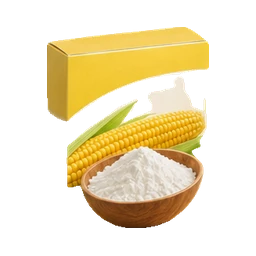
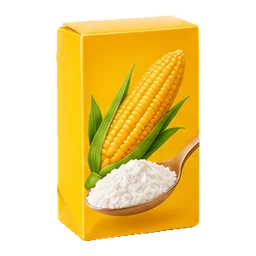
Versione 1.24: Tavola 32: 6 nuovi dolci e 10 immagini rifatte (Spaghetti, sfoglia, brisée, amido, gomme, couscous, besciamella, latte avena/mandorla, gassosa)
Claude-Session: https://claude.ai/code/session_01PsEHN9z92aK7YRahLFy1Zj

diff --git a/sw.js b/sw.js
@@ -1,7 +1,7 @@
 // Service worker: tiene l'app disponibile anche senza rete.
 // Per forzare un aggiornamento su tutti i telefoni, cambia il numero di VERSIONE.
-const VERSIONE = 'solo-du-cose-v24';
-const FILE = ["./", "index.html", "manifest.webmanifest", "icons/icon-192.png", "icons/icon-512.png", "icons/apple-touch-icon.png", "img/accendino.webp", "img/acciughe.webp", "img/aceto-balsamico.webp", "img/aceto-di-mele.webp", "img/aceto.webp", "img/acetone.webp", "img/acqua-frizzante.webp", "img/acqua-ossigenata.webp", "img/acqua.webp", "img/aglio.webp", "img/agnello.webp", "img/albicocche.webp", "img/alcol-denaturato.webp", "img/ali-di-pollo.webp", "img/amaretti.webp", "img/amaro.webp", "img/amido-di-mais.webp", "img/ammorbidente.webp", "img/anacardi.webp", "img/ananas.webp", "img/anguria.webp", "img/anticalcare.webp", "img/antidolorifico.webp", "img/antiparassitario.webp", "img/antizanzare.webp", "img/aperitivo.webp", "img/arachidi.webp", "img/arancia.webp", "img/aranciata.webp", "img/arancini-surgelati.webp", "img/arrosto.webp", "img/asiago.webp", "img/asparagi.webp", "img/assorbenti.webp", "img/avocado.webp", "img/baccala.webp", "img/bagel.webp", "img/bagnoschiuma.webp", "img/baguette.webp", "img/balsamo.webp", "img/banana.webp", "img/barbabietole.webp", "img/barrette-di-cereali.webp", "img/barrette.webp", "img/basilico.webp", "img/bastoncini-di-pesce.webp", "img/batterie-a-bottone.webp", "img/batterie.webp", "img/besciamella.webp", "img/bevanda-sportiva.webp", "img/bibite.webp", "img/bicarbonato.webp", "img/bicchieri-di-plastica.webp", "img/bietole.webp", "img/biglietti-d-auguri.webp", "img/birra-analcolica.webp", "img/birra.webp", "img/biscotti-integrali.webp", "img/biscotti.webp", "img/bistecche.webp", "img/bocconcini.webp", "img/borse-della-spesa.webp", "img/braciole.webp", "img/branzino.webp", "img/bresaola.webp", "img/brie.webp", "img/brillantante.webp", "img/brioche.webp", "img/broccoli-surgelati.webp", "img/broccoli.webp", "img/brodo.webp", "img/bucatini.webp", "img/budino.webp", "img/burrata.webp", "img/burro-di-arachidi.webp", "img/burro.webp", "img/burrocacao.webp", "img/buste.webp", "img/cacao-amaro.webp", "img/cachi.webp", "img/caciotta.webp", "img/caffe-d-orzo.webp", "img/caffe-freddo.webp", "img/caffe-in-capsule.webp", "img/caffe-in-grani.webp", "img/caffe-macinato.webp", "img/caffe.webp", "img/calamari-surgelati.webp", "img/calamari.webp", "img/camomilla.webp", "img/cancelleria.webp", "img/candeggina.webp", "img/candele-profumate.webp", "img/candele.webp", "img/candeline.webp", "img/cannella.webp", "img/cannucce.webp", "img/cantucci.webp", "img/capperi.webp", "img/caramelle.webp", "img/carciofi.webp", "img/carciofini-sott-olio.webp", "img/carote-surgelate.webp", "img/carote.webp", "img/carta-alluminio.webp", "img/carta-da-cucina.webp", "img/carta-forno.webp", "img/carta-igienica.webp", "img/carta-regalo.webp", "img/castagne.webp", "img/cavolfiore-surgelato.webp", "img/cavolfiore.webp", "img/cavolo-cappuccio.webp", "img/cavolo-nero.webp", "img/ceci.webp", "img/cereali.webp", "img/cerotti.webp", "img/cetrioli.webp", "img/cetriolini.webp", "img/chinotto.webp", "img/ciabatta.webp", "img/ciambella.webp", "img/ciambelle.webp", "img/cibo-per-cani.webp", "img/cicoria.webp", "img/ciliegie.webp", "img/cioccolatini.webp", "img/cioccolato-al-latte.webp", "img/cioccolato-bianco.webp", "img/cioccolato-fondente.webp", "img/cioccolato.webp", "img/cipolla.webp", "img/clementine.webp", "img/cocco.webp", "img/cola.webp", "img/collutorio.webp", "img/colomba.webp", "img/concentrato-di-pomodoro.webp", "img/coniglio.webp", "img/contenitori.webp", "img/coppa.webp", "img/corn-flakes.webp", "img/cornetto.webp", "img/cosce-di-pollo.webp", "img/costine.webp", "img/cotolette-surgelate.webp", "img/cotolette.webp", "img/cotone.webp", "img/cotton-fioc.webp", "img/couscous.webp", "img/cozze.webp", "img/cracker.webp", "img/crema-corpo.webp", "img/crema-idratante.webp", "img/crema-mani.webp", "img/crema-viso.webp", "img/croccantini.webp", "img/crocchette-di-patate.webp", "img/crostata.webp", "img/crostatine.webp", "img/curry.webp", "img/dentifricio.webp", "img/deodorante-per-ambiente.webp", "img/deodorante-roll-on.webp", "img/deodorante.webp", "img/detersivo-in-capsule.webp", "img/detersivo-pavimenti.webp", "img/detersivo-piatti.webp", "img/detersivo-vetri.webp", "img/detersivo.webp", "img/dischetti-struccanti.webp", "img/disincrostante.webp", "img/disinfettante.webp", "img/doccia.webp", "img/dopobarba.webp", "img/emmental.webp", "img/energy-drink.webp", "img/fagioli.webp", "img/fagiolini-surgelati.webp", "img/fagiolini.webp", "img/farfalle.webp", "img/farina.webp", "img/farmacia.webp", "img/farro.webp", "img/fave.webp", "img/fazzoletti.webp", "img/fegato.webp", "img/fesa-di-tacchino.webp", "img/feta.webp", "img/fette-biscottate.webp", "img/fettine-di-pollo.webp", "img/fettine-di-vitello.webp", "img/fiammiferi.webp", "img/fichi.webp", "img/filetto-di-manzo.webp", "img/filo-interdentale.webp", "img/filone.webp", "img/finocchi.webp", "img/fiocchi-d-avena.webp", "img/fiocchi-di-latte.webp", "img/fiori.webp", "img/focaccia-surgelata.webp", "img/focaccia.webp", "img/fontina.webp", "img/formaggini.webp", "img/formaggio-grattugiato.webp", "img/formaggio-spalmabile.webp", "img/formaggio.webp", "img/fragole.webp", "img/fritto-misto-surgelato.webp", "img/frollini.webp", "img/frutta-secca.webp", "img/frutti-di-bosco-surgelati.webp", "img/funghi-sott-olio.webp", "img/funghi.webp", "img/fusilli.webp", "img/gamberetti-surgelati.webp", "img/gamberi.webp", "img/garze.webp", "img/gassosa.webp", "img/gel-igienizzante.webp", "img/gel-per-capelli.webp", "img/gelatina.webp", "img/gelato.webp", "img/ghiaccio.webp", "img/ghiaccioli.webp", "img/giardiniera.webp", "img/ginger.webp", "img/gnocchi.webp", "img/gocce-di-cioccolato.webp", "img/gocciole.webp", "img/gomme-da-masticare.webp", "img/gorgonzola.webp", "img/graffette.webp", "img/grana.webp", "img/grappa.webp", "img/grissini.webp", "img/guanciale.webp", "img/guanti.webp", "img/hamburger-surgelati.webp", "img/hamburger.webp", "img/igienizzante.webp", "img/insalata-mista.webp", "img/insalata.webp", "img/insetticida.webp", "img/integratori.webp", "img/involtini.webp", "img/kefir.webp", "img/ketchup.webp", "img/kiwi.webp", "img/krapfen.webp", "img/lacca.webp", "img/lambrusco.webp", "img/lamette.webp", "img/lampadine.webp", "img/lamponi.webp", "img/lasagne.webp", "img/latte-detergente.webp", "img/latte-di-avena.webp", "img/latte-di-mandorla.webp", "img/latte-di-soia.webp", "img/latte-senza-lattosio.webp", "img/latte.webp", "img/lattuga.webp", "img/lavastoviglie-pastiglie.webp", "img/lecca-lecca.webp", "img/legumi-misti.webp", "img/lenticchie.webp", "img/lievito-di-birra.webp", "img/lievito.webp", "img/lime.webp", "img/limoncello.webp", "img/limone.webp", "img/linguine.webp", "img/liquirizia.webp", "img/macinato.webp", "img/maiale.webp", "img/maionese.webp", "img/mais-in-scatola.webp", "img/mais-surgelato.webp", "img/mais.webp", "img/mandarini.webp", "img/mandorle.webp", "img/mango.webp", "img/manzo.webp", "img/margarina.webp", "img/marmellata.webp", "img/mascara.webp", "img/mascarpone.webp", "img/maschera-per-capelli.webp", "img/matite.webp", "img/mazzancolle.webp", "img/mela.webp", "img/melanzana.webp", "img/mele-verdi.webp", "img/melograno.webp", "img/melone.webp", "img/menta.webp", "img/mentine.webp", "img/merendine.webp", "img/merluzzo-surgelato.webp", "img/merluzzo.webp", "img/miele.webp", "img/minestrone-surgelato.webp", "img/mirtilli.webp", "img/mocio.webp", "img/more.webp", "img/mortadella.webp", "img/mozzarella.webp", "img/mozzarelline.webp", "img/muesli.webp", "img/muffin.webp", "img/nastri.webp", "img/nastro-adesivo.webp", "img/nocciole.webp", "img/noccioline.webp", "img/noce-moscata.webp", "img/noci.webp", "img/nuggets.webp", "img/nutella.webp", "img/olio-extravergine.webp", "img/olio.webp", "img/olive.webp", "img/orata.webp", "img/orecchiette.webp", "img/origano.webp", "img/orzo.webp", "img/pacco.webp", "img/pagliette.webp", "img/paletta.webp", "img/palloncini.webp", "img/pan-carre.webp", "img/pancake.webp", "img/pancetta.webp", "img/pandoro.webp", "img/pane-casereccio.webp", "img/pane-in-cassetta.webp", "img/pane-integrale.webp", "img/pane-senza-glutine.webp", "img/pane.webp", "img/panettone.webp", "img/pangrattato.webp", "img/panini-per-hamburger.webp", "img/panini.webp", "img/panna.webp", "img/panni.webp", "img/pannolini.webp", "img/paprika.webp", "img/parmigiano.webp", "img/passata.webp", "img/pasta-all-uovo.webp", "img/pasta-brisee.webp", "img/pasta-sfoglia.webp", "img/pasta.webp", "img/pasticcini.webp", "img/patate-dolci.webp", "img/patate-surgelate.webp", "img/patate.webp", "img/patatine-surgelate.webp", "img/patatine.webp", "img/pecorino.webp", "img/pellicola.webp", "img/penne.webp", "img/pepe.webp", "img/peperoncino.webp", "img/peperone.webp", "img/pera.webp", "img/pesca.webp", "img/pesce-spada.webp", "img/pesce-surgelato.webp", "img/pesto.webp", "img/petto-di-pollo.webp", "img/piadine.webp", "img/piante.webp", "img/piatti-di-carta.webp", "img/pinoli.webp", "img/piselli-freschi.webp", "img/piselli-in-scatola.webp", "img/piselli-surgelati.webp", "img/pistacchi.webp", "img/pizza-base.webp", "img/pizza-surgelata.webp", "img/platessa.webp", "img/plumcake.webp", "img/polenta.webp", "img/pollo.webp", "img/polpa-di-pomodoro.webp", "img/polpette-surgelate.webp", "img/polpette.webp", "img/polpo.webp", "img/pomodori-datterini.webp", "img/pomodori-pelati.webp", "img/pomodori-secchi.webp", "img/pomodorini-ciliegino.webp", "img/pomodoro.webp", "img/pompelmo.webp", "img/popcorn.webp", "img/porchetta.webp", "img/posate-di-plastica.webp", "img/prezzemolo.webp", "img/prosciutto-cotto.webp", "img/prosciutto-crudo.webp", "img/prosecco.webp", "img/protezione-solare.webp", "img/provola.webp", "img/prugne.webp", "img/quaderni.webp", "img/radicchio.webp", "img/rasoi.webp", "img/ravanelli.webp", "img/ravioli-surgelati.webp", "img/ravioli.webp", "img/regalo.webp", "img/ricambi-mocio.webp", "img/ricotta.webp", "img/rigatoni.webp", "img/riso-basmati.webp", "img/riso.webp", "img/rosmarino.webp", "img/rossetto.webp", "img/rotoloni.webp", "img/rucola.webp", "img/sacchetti-freezer.webp", "img/sacchetti-igienici.webp", "img/sacchetti-umido.webp", "img/sacchi-della-spazzatura.webp", "img/salame.webp", "img/salatini.webp", "img/sale-per-lavastoviglie.webp", "img/sale.webp", "img/salmone-affumicato.webp", "img/salmone-surgelato.webp", "img/salmone.webp", "img/salsa-barbecue.webp", "img/salsa-di-soia.webp", "img/salsicce.webp", "img/salvia.webp", "img/salviette-neonato.webp", "img/salviette-umidificate.webp", "img/sapone-intimo.webp", "img/sapone-liquido.webp", "img/sapone.webp", "img/sardine-in-scatola.webp", "img/sardine.webp", "img/savoiardi.webp", "img/scalogno.webp", "img/scamorza.webp", "img/scampi.webp", "img/schiuma-da-barba.webp", "img/sciroppo.webp", "img/scopa.webp", "img/secchio.webp", "img/sedano.webp", "img/semola.webp", "img/senape.webp", "img/seppie.webp", "img/sgombro.webp", "img/sgrassatore.webp", "img/shampoo.webp", "img/smalto.webp", "img/snack-per-cani.webp", "img/soffritto-surgelato.webp", "img/sogliola.webp", "img/sorbetto.webp", "img/sottaceti.webp", "img/sottilette.webp", "img/spazzola.webp", "img/spazzolino.webp", "img/speck.webp", "img/spezzatino.webp", "img/spinaci-surgelati.webp", "img/spinaci.webp", "img/spremuta.webp", "img/spugne.webp", "img/spumante.webp", "img/straccetti-di-pollo.webp", "img/stracchino.webp", "img/strofinacci.webp", "img/struccante.webp", "img/succo-d-arancia.webp", "img/succo-di-frutta.webp", "img/succo-di-limone.webp", "img/succo-di-pomodoro.webp", "img/sugo.webp", "img/surimi.webp", "img/tacchino.webp", "img/tagliata.webp", "img/tagliatelle.webp", "img/taleggio.webp", "img/tamponi.webp", "img/taralli.webp", "img/te-freddo.webp", "img/te.webp", "img/termometro.webp", "img/timo.webp", "img/tisane.webp", "img/tonica.webp", "img/tonno-fresco.webp", "img/tonno-in-scatola.webp", "img/torrone.webp", "img/torta.webp", "img/tortellini.webp", "img/tortillas.webp", "img/totani.webp", "img/tovaglioli.webp", "img/trota.webp", "img/umido-per-cani.webp", "img/uova.webp", "img/uva.webp", "img/uvetta.webp", "img/vanillina.webp", "img/verdure-surgelate.webp", "img/vino-bianco.webp", "img/vino-frizzante.webp", "img/vino.webp", "img/vitamine.webp", "img/vitello.webp", "img/vongole.webp", "img/wafer.webp", "img/wurstel.webp", "img/yogurt-alla-frutta.webp", "img/yogurt-greco.webp", "img/yogurt.webp", "img/zenzero.webp", "img/zucca.webp", "img/zucchero-a-velo.webp", "img/zucchero-di-canna.webp", "img/zucchero.webp", "img/zucchina.webp"];
+const VERSIONE = 'solo-du-cose-v25';
+const FILE = ["./", "index.html", "manifest.webmanifest", "icons/icon-192.png", "icons/icon-512.png", "icons/apple-touch-icon.png", "img/accendino.webp", "img/acciughe.webp", "img/aceto-balsamico.webp", "img/aceto-di-mele.webp", "img/aceto.webp", "img/acetone.webp", "img/acqua-frizzante.webp", "img/acqua-ossigenata.webp", "img/acqua.webp", "img/aglio.webp", "img/agnello.webp", "img/albicocche.webp", "img/alcol-denaturato.webp", "img/ali-di-pollo.webp", "img/amaretti.webp", "img/amaro.webp", "img/amido-di-mais.webp", "img/ammorbidente.webp", "img/anacardi.webp", "img/ananas.webp", "img/anguria.webp", "img/anticalcare.webp", "img/antidolorifico.webp", "img/antiparassitario.webp", "img/antizanzare.webp", "img/aperitivo.webp", "img/arachidi.webp", "img/arancia.webp", "img/aranciata.webp", "img/arancini-surgelati.webp", "img/arrosto.webp", "img/asiago.webp", "img/asparagi.webp", "img/assorbenti.webp", "img/avocado.webp", "img/baccala.webp", "img/bagel.webp", "img/bagnoschiuma.webp", "img/baguette.webp", "img/baiocchi.webp", "img/balsamo.webp", "img/banana.webp", "img/barbabietole.webp", "img/barrette-di-cereali.webp", "img/barrette.webp", "img/basilico.webp", "img/bastoncini-di-pesce.webp", "img/batterie-a-bottone.webp", "img/batterie.webp", "img/besciamella.webp", "img/bevanda-sportiva.webp", "img/bibite.webp", "img/bicarbonato.webp", "img/bicchieri-di-plastica.webp", "img/bietole.webp", "img/biglietti-d-auguri.webp", "img/birra-analcolica.webp", "img/birra.webp", "img/biscotti-integrali.webp", "img/biscotti-mulino-bianco.webp", "img/biscotti.webp", "img/bistecche.webp", "img/bocconcini.webp", "img/borse-della-spesa.webp", "img/braciole.webp", "img/branzino.webp", "img/bresaola.webp", "img/brie.webp", "img/brillantante.webp", "img/brioche.webp", "img/broccoli-surgelati.webp", "img/broccoli.webp", "img/brodo.webp", "img/bucatini.webp", "img/budino.webp", "img/burrata.webp", "img/burro-di-arachidi.webp", "img/burro.webp", "img/burrocacao.webp", "img/buste.webp", "img/cacao-amaro.webp", "img/cachi.webp", "img/caciotta.webp", "img/caffe-d-orzo.webp", "img/caffe-freddo.webp", "img/caffe-in-capsule.webp", "img/caffe-in-grani.webp", "img/caffe-macinato.webp", "img/caffe.webp", "img/calamari-surgelati.webp", "img/calamari.webp", "img/camomilla.webp", "img/cancelleria.webp", "img/candeggina.webp", "img/candele-profumate.webp", "img/candele.webp", "img/candeline.webp", "img/cannella.webp", "img/cannucce.webp", "img/cantucci.webp", "img/capperi.webp", "img/caramelle.webp", "img/carciofi.webp", "img/carciofini-sott-olio.webp", "img/carote-surgelate.webp", "img/carote.webp", "img/carta-alluminio.webp", "img/carta-da-cucina.webp", "img/carta-forno.webp", "img/carta-igienica.webp", "img/carta-regalo.webp", "img/castagne.webp", "img/cavolfiore-surgelato.webp", "img/cavolfiore.webp", "img/cavolo-cappuccio.webp", "img/cavolo-nero.webp", "img/ceci.webp", "img/cereali.webp", "img/cerotti.webp", "img/cetrioli.webp", "img/cetriolini.webp", "img/chinotto.webp", "img/ciabatta.webp", "img/ciambella.webp", "img/ciambelle.webp", "img/cibo-per-cani.webp", "img/cicoria.webp", "img/ciliegie.webp", "img/cioccolatini.webp", "img/cioccolato-al-latte.webp", "img/cioccolato-bianco.webp", "img/cioccolato-fondente.webp", "img/cioccolato.webp", "img/cipolla.webp", "img/clementine.webp", "img/cocco.webp", "img/cola.webp", "img/collutorio.webp", "img/colomba.webp", "img/concentrato-di-pomodoro.webp", "img/coniglio.webp", "img/contenitori.webp", "img/coppa.webp", "img/corn-flakes.webp", "img/cornetto.webp", "img/cosce-di-pollo.webp", "img/costine.webp", "img/cotolette-surgelate.webp", "img/cotolette.webp", "img/cotone.webp", "img/cotton-fioc.webp", "img/couscous.webp", "img/cozze.webp", "img/cracker.webp", "img/crema-corpo.webp", "img/crema-idratante.webp", "img/crema-mani.webp", "img/crema-viso.webp", "img/croccantini.webp", "img/crocchette-di-patate.webp", "img/crostata.webp", "img/crostatine.webp", "img/curry.webp", "img/dentifricio.webp", "img/deodorante-per-ambiente.webp", "img/deodorante-roll-on.webp", "img/deodorante.webp", "img/detersivo-in-capsule.webp", "img/detersivo-pavimenti.webp", "img/detersivo-piatti.webp", "img/detersivo-vetri.webp", "img/detersivo.webp", "img/dischetti-struccanti.webp", "img/disincrostante.webp", "img/disinfettante.webp", "img/doccia.webp", "img/dopobarba.webp", "img/emmental.webp", "img/energy-drink.webp", "img/fagioli.webp", "img/fagiolini-surgelati.webp", "img/fagiolini.webp", "img/farfalle.webp", "img/farina.webp", "img/farmacia.webp", "img/farro.webp", "img/fave.webp", "img/fazzoletti.webp", "img/fegato.webp", "img/fesa-di-tacchino.webp", "img/feta.webp", "img/fette-biscottate.webp", "img/fettine-di-pollo.webp", "img/fettine-di-vitello.webp", "img/fiammiferi.webp", "img/fichi.webp", "img/fiesta.webp", "img/filetto-di-manzo.webp", "img/filo-interdentale.webp", "img/filone.webp", "img/finocchi.webp", "img/fiocchi-d-avena.webp", "img/fiocchi-di-latte.webp", "img/fiori.webp", "img/focaccia-surgelata.webp", "img/focaccia.webp", "img/fontina.webp", "img/formaggini.webp", "img/formaggio-grattugiato.webp", "img/formaggio-spalmabile.webp", "img/formaggio.webp", "img/fragole.webp", "img/fritto-misto-surgelato.webp", "img/frollini.webp", "img/frutta-secca.webp", "img/frutti-di-bosco-surgelati.webp", "img/funghi-sott-olio.webp", "img/funghi.webp", "img/fusilli.webp", "img/gamberetti-surgelati.webp", "img/gamberi.webp", "img/garze.webp", "img/gassosa.webp", "img/gel-igienizzante.webp", "img/gel-per-capelli.webp", "img/gelatina.webp", "img/gelato.webp", "img/ghiaccio.webp", "img/ghiaccioli.webp", "img/giardiniera.webp", "img/ginger.webp", "img/gnocchi.webp", "img/gocce-di-cioccolato.webp", "img/gocciole.webp", "img/gomme-da-masticare.webp", "img/gorgonzola.webp", "img/graffette.webp", "img/grana.webp", "img/grappa.webp", "img/grissini.webp", "img/guanciale.webp", "img/guanti.webp", "img/hamburger-surgelati.webp", "img/hamburger.webp", "img/igienizzante.webp", "img/insalata-mista.webp", "img/insalata.webp", "img/insetticida.webp", "img/integratori.webp", "img/involtini.webp", "img/kefir.webp", "img/ketchup.webp", "img/kiwi.webp", "img/krapfen.webp", "img/lacca.webp", "img/lambrusco.webp", "img/lamette.webp", "img/lampadine.webp", "img/lamponi.webp", "img/lasagne.webp", "img/latte-detergente.webp", "img/latte-di-avena.webp", "img/latte-di-mandorla.webp", "img/latte-di-soia.webp", "img/latte-senza-lattosio.webp", "img/latte.webp", "img/lattuga.webp", "img/lavastoviglie-pastiglie.webp", "img/lecca-lecca.webp", "img/legumi-misti.webp", "img/lenticchie.webp", "img/lievito-di-birra.webp", "img/lievito.webp", "img/lime.webp", "img/limoncello.webp", "img/limone.webp", "img/linguine.webp", "img/liquirizia.webp", "img/macinato.webp", "img/maiale.webp", "img/maionese.webp", "img/mais-in-scatola.webp", "img/mais-surgelato.webp", "img/mais.webp", "img/mandarini.webp", "img/mandorle.webp", "img/mango.webp", "img/manzo.webp", "img/margarina.webp", "img/marmellata.webp", "img/mascara.webp", "img/mascarpone.webp", "img/maschera-per-capelli.webp", "img/matite.webp", "img/mazzancolle.webp", "img/mela.webp", "img/melanzana.webp", "img/mele-verdi.webp", "img/melograno.webp", "img/melone.webp", "img/menta.webp", "img/mentine.webp", "img/merendine.webp", "img/merluzzo-surgelato.webp", "img/merluzzo.webp", "img/miele.webp", "img/minestrone-surgelato.webp", "img/mirtilli.webp", "img/mocio.webp", "img/more.webp", "img/mortadella.webp", "img/mozzarella.webp", "img/mozzarelline.webp", "img/muesli.webp", "img/muffin.webp", "img/nastri.webp", "img/nastro-adesivo.webp", "img/nocciole.webp", "img/noccioline.webp", "img/noce-moscata.webp", "img/noci.webp", "img/nuggets.webp", "img/nutella-biscuits.webp", "img/nutella.webp", "img/occhi-di-bue.webp", "img/olio-extravergine.webp", "img/olio.webp", "img/olive.webp", "img/orata.webp", "img/orecchiette.webp", "img/origano.webp", "img/orzo.webp", "img/pacco.webp", "img/pagliette.webp", "img/paletta.webp", "img/palloncini.webp", "img/pan-carre.webp", "img/pancake.webp", "img/pancetta.webp", "img/pandoro.webp", "img/pane-casereccio.webp", "img/pane-in-cassetta.webp", "img/pane-integrale.webp", "img/pane-senza-glutine.webp", "img/pane.webp", "img/panettone.webp", "img/pangrattato.webp", "img/panini-per-hamburger.webp", "img/panini.webp", "img/panna.webp", "img/panni.webp", "img/pannolini.webp", "img/paprika.webp", "img/parmigiano.webp", "img/passata.webp", "img/pasta-all-uovo.webp", "img/pasta-brisee.webp", "img/pasta-sfoglia.webp", "img/pasta.webp", "img/pasticcini.webp", "img/patate-dolci.webp", "img/patate-surgelate.webp", "img/patate.webp", "img/patatine-surgelate.webp", "img/patatine.webp", "img/pecorino.webp", "img/pellicola.webp", "img/penne.webp", "img/pepe.webp", "img/peperoncino.webp", "img/peperone.webp", "img/pera.webp", "img/pesca.webp", "img/pesce-spada.webp", "img/pesce-surgelato.webp", "img/pesto.webp", "img/petto-di-pollo.webp", "img/piadine.webp", "img/piante.webp", "img/piatti-di-carta.webp", "img/pinoli.webp", "img/piselli-freschi.webp", "img/piselli-in-scatola.webp", "img/piselli-surgelati.webp", "img/pistacchi.webp", "img/pizza-base.webp", "img/pizza-surgelata.webp", "img/platessa.webp", "img/plumcake.webp", "img/polenta.webp", "img/pollo.webp", "img/polpa-di-pomodoro.webp", "img/polpette-surgelate.webp", "img/polpette.webp", "img/polpo.webp", "img/pomodori-datterini.webp", "img/pomodori-pelati.webp", "img/pomodori-secchi.webp", "img/pomodorini-ciliegino.webp", "img/pomodoro.webp", "img/pompelmo.webp", "img/popcorn.webp", "img/porchetta.webp", "img/posate-di-plastica.webp", "img/prezzemolo.webp", "img/prosciutto-cotto.webp", "img/prosciutto-crudo.webp", "img/prosecco.webp", "img/protezione-solare.webp", "img/provola.webp", "img/prugne.webp", "img/quaderni.webp", "img/radicchio.webp", "img/rasoi.webp", "img/ravanelli.webp", "img/ravioli-surgelati.webp", "img/ravioli.webp", "img/regalo.webp", "img/ricambi-mocio.webp", "img/ricotta.webp", "img/rigatoni.webp", "img/riso-basmati.webp", "img/riso.webp", "img/rosmarino.webp", "img/rossetto.webp", "img/rotoloni.webp", "img/rucola.webp", "img/sacchetti-freezer.webp", "img/sacchetti-igienici.webp", "img/sacchetti-umido.webp", "img/sacchi-della-spazzatura.webp", "img/salame.webp", "img/salatini.webp", "img/sale-per-lavastoviglie.webp", "img/sale.webp", "img/salmone-affumicato.webp", "img/salmone-surgelato.webp", "img/salmone.webp", "img/salsa-barbecue.webp", "img/salsa-di-soia.webp", "img/salsicce.webp", "img/salvia.webp", "img/salviette-neonato.webp", "img/salviette-umidificate.webp", "img/sapone-intimo.webp", "img/sapone-liquido.webp", "img/sapone.webp", "img/sardine-in-scatola.webp", "img/sardine.webp", "img/savoiardi.webp", "img/scalogno.webp", "img/scamorza.webp", "img/scampi.webp", "img/schiuma-da-barba.webp", "img/sciroppo.webp", "img/scopa.webp", "img/secchio.webp", "img/sedano.webp", "img/semola.webp", "img/senape.webp", "img/seppie.webp", "img/sgombro.webp", "img/sgrassatore.webp", "img/shampoo.webp", "img/smalto.webp", "img/snack-per-cani.webp", "img/soffritto-surgelato.webp", "img/sogliola.webp", "img/sorbetto.webp", "img/sottaceti.webp", "img/sottilette.webp", "img/spaghetti.webp", "img/spazzola.webp", "img/spazzolino.webp", "img/speck.webp", "img/spezzatino.webp", "img/spinaci-surgelati.webp", "img/spinaci.webp", "img/spremuta.webp", "img/spugne.webp", "img/spumante.webp", "img/straccetti-di-pollo.webp", "img/stracchino.webp", "img/strofinacci.webp", "img/struccante.webp", "img/succo-d-arancia.webp", "img/succo-di-frutta.webp", "img/succo-di-limone.webp", "img/succo-di-pomodoro.webp", "img/sugo.webp", "img/surimi.webp", "img/tacchino.webp", "img/tagliata.webp", "img/tagliatelle.webp", "img/taleggio.webp", "img/tamponi.webp", "img/taralli.webp", "img/te-freddo.webp", "img/te.webp", "img/termometro.webp", "img/timo.webp", "img/tisane.webp", "img/tonica.webp", "img/tonno-fresco.webp", "img/tonno-in-scatola.webp", "img/torrone.webp", "img/torta.webp", "img/tortellini.webp", "img/tortillas.webp", "img/totani.webp", "img/tovaglioli.webp", "img/trota.webp", "img/umido-per-cani.webp", "img/uova.webp", "img/uva.webp", "img/uvetta.webp", "img/vanillina.webp", "img/ventaglietti.webp", "img/verdure-surgelate.webp", "img/vino-bianco.webp", "img/vino-frizzante.webp", "img/vino.webp", "img/vitamine.webp", "img/vitello.webp", "img/vongole.webp", "img/wafer.webp", "img/wurstel.webp", "img/yogurt-alla-frutta.webp", "img/yogurt-greco.webp", "img/yogurt.webp", "img/zenzero.webp", "img/zucca.webp", "img/zucchero-a-velo.webp", "img/zucchero-di-canna.webp", "img/zucchero.webp", "img/zucchina.webp"];
 
 self.addEventListener('install', e => {
   e.waitUntil(caches.open(VERSIONE).then(c => c.addAll(FILE)).then(() => self.skipWaiting()));

diff --git a/index.html b/index.html
@@ -307,7 +307,7 @@ const IMG = {
   'melanzane':'melanzana','peperoni':'peperone','funghi':'funghi','avocado':'avocado','basilico':'basilico','mais':'mais','pane':'pane','cornetti':'cornetto',
   'coca-cola':'cola','fanta':'aranciata','schweppes':'tonica','ginger ale':'ginger','red bull':'energy-drink','gatorade':'bevanda-sportiva','estathe':'te-freddo','aperol':'aperitivo','philadelphia':'formaggio-spalmabile',
   'latte':'latte','latte senza lattosio':'latte-senza-lattosio','burro':'burro','mozzarella':'mozzarella','parmigiano':'parmigiano','formaggio':'formaggio','uova':'uova','yogurt':'yogurt',
-  'pasta':'pasta','spaghetti':'pasta','riso':'riso','farina':'farina','zucchero':'zucchero','olio':'olio',"olio d'oliva":'olio','passata di pomodoro':'passata',
+  'pasta':'pasta','spaghetti':'spaghetti','riso':'riso','farina':'farina','zucchero':'zucchero','olio':'olio',"olio d'oliva":'olio','passata di pomodoro':'passata',
   'caffe':'caffe','biscotti':'biscotti','acqua':'acqua','acqua frizzante':'acqua-frizzante','vino rosso':'vino','birra':'birra','carta igienica':'carta-igienica',
   'detersivo piatti':'detersivo-piatti','detersivo lavatrice':'detersivo','dentifricio':'dentifricio',
   'melone':'melone','mirtilli':'mirtilli','spinaci':'spinaci','prezzemolo':'prezzemolo','cetrioli':'cetrioli','zucca':'zucca','rucola':'rucola','finocchi':'finocchi','sedano':'sedano','ananas':'ananas','mango':'mango','ciliegie':'ciliegie','albicocche':'albicocche','mandarini':'mandarini','clementine':'clementine','pompelmo':'pompelmo','lime':'lime','fichi':'fichi','cachi':'cachi','melograno':'melograno','mele verdi':'mele-verdi','cocco':'cocco','castagne':'castagne','lamponi':'lamponi','more':'more','prugne':'prugne','cavolfiore':'cavolfiore','cavolo cappuccio':'cavolo-cappuccio','cavolo nero':'cavolo-nero','radicchio':'radicchio','bietole':'bietole','asparagi':'asparagi','fagiolini':'fagiolini','piselli freschi':'piselli-freschi','ravanelli':'ravanelli','barbabietole':'barbabietole','cicoria':'cicoria','lattuga':'lattuga','patate dolci':'patate-dolci','scalogno':'scalogno','zenzero':'zenzero','peperoncino':'peperoncino','carciofi':'carciofi','pomodorini ciliegino':'pomodorini-ciliegino','pomodori datterini':'pomodori-datterini','insalata mista':'insalata-mista','rosmarino':'rosmarino','salvia':'salvia',
@@ -317,7 +317,8 @@ const IMG = {
   'vanillina':'vanillina','amido di mais':'amido-di-mais','lievito di birra':'lievito-di-birra','gelatina':'gelatina','gocce di cioccolato':'gocce-di-cioccolato','camomilla':'camomilla','tisane':'tisane','caffe d\'orzo':'caffe-d-orzo','caffe macinato':'caffe-macinato','caffe in grani':'caffe-in-grani','pesto':'pesto','carciofini sott\'olio':'carciofini-sott-olio','pomodori secchi':'pomodori-secchi','sottaceti':'sottaceti','giardiniera':'giardiniera','funghi sott\'olio':'funghi-sott-olio','polpa di pomodoro':'polpa-di-pomodoro','legumi misti':'legumi-misti','salsa barbecue':'salsa-barbecue','piselli surgelati':'piselli-surgelati','verdure surgelate':'verdure-surgelate','patatine surgelate':'patatine-surgelate','pizza surgelata':'pizza-surgelata','gelato':'gelato','bastoncini di pesce':'bastoncini-di-pesce','pesce surgelato':'pesce-surgelato','spinaci surgelati':'spinaci-surgelati','ghiaccio':'ghiaccio','minestrone surgelato':'minestrone-surgelato','broccoli surgelati':'broccoli-surgelati','cavolfiore surgelato':'cavolfiore-surgelato','mais surgelato':'mais-surgelato','fagiolini surgelati':'fagiolini-surgelati','carote surgelate':'carote-surgelate','frutti di bosco surgelati':'frutti-di-bosco-surgelati','gamberetti surgelati':'gamberetti-surgelati','calamari surgelati':'calamari-surgelati','salmone surgelato':'salmone-surgelato','merluzzo surgelato':'merluzzo-surgelato','cotolette surgelate':'cotolette-surgelate','nuggets':'nuggets','straccetti di pollo':'straccetti-di-pollo','hamburger surgelati':'hamburger-surgelati','polpette surgelate':'polpette-surgelate','ravioli surgelati':'ravioli-surgelati','pasta sfoglia':'pasta-sfoglia','pasta brisee':'pasta-brisee','focaccia surgelata':'focaccia-surgelata','crocchette di patate':'crocchette-di-patate','patate surgelate':'patate-surgelate','arancini surgelati':'arancini-surgelati','ghiaccioli':'ghiaccioli','sorbetto':'sorbetto','soffritto surgelato':'soffritto-surgelato','fritto misto surgelato':'fritto-misto-surgelato','cioccolato':'cioccolato','merendine':'merendine','patatine':'patatine','cracker':'cracker','caramelle':'caramelle','popcorn':'popcorn','arachidi':'arachidi','brioche':'brioche','barrette':'barrette',
   'budino':'budino','pandoro':'pandoro','gocciole':'gocciole','cioccolato fondente':'cioccolato-fondente','frollini':'frollini','wafer':'wafer','savoiardi':'savoiardi','biscotti integrali':'biscotti-integrali','cantucci':'cantucci','amaretti':'amaretti','cioccolato bianco':'cioccolato-bianco','cioccolato al latte':'cioccolato-al-latte','cioccolatini':'cioccolatini','gomme da masticare':'gomme-da-masticare','mentine':'mentine','lecca lecca':'lecca-lecca','liquirizia':'liquirizia','ciambelle':'ciambelle','krapfen':'krapfen','crostatine':'crostatine','colomba':'colomba','panettone':'panettone','torrone':'torrone','salatini':'salatini','noccioline':'noccioline','barrette di cereali':'barrette-di-cereali','pancake':'pancake','muffin':'muffin','pasticcini':'pasticcini','succo di frutta':'succo-di-frutta','cola':'cola','aranciata':'aranciata','vino bianco':'vino-bianco','prosecco':'prosecco','caffe in capsule':'caffe-in-capsule','latte di soia':'latte-di-soia','te freddo':'te-freddo','amaro':'amaro','sciroppo':'sciroppo','bibite':'bibite','succo d\'arancia':'succo-d-arancia','spremuta':'spremuta','tonica':'tonica','gassosa':'gassosa','chinotto':'chinotto','ginger':'ginger','energy drink':'energy-drink','bevanda sportiva':'bevanda-sportiva','birra analcolica':'birra-analcolica','vino frizzante':'vino-frizzante','lambrusco':'lambrusco','grappa':'grappa','limoncello':'limoncello','aperitivo':'aperitivo','spumante':'spumante','caffe freddo':'caffe-freddo','succo di limone':'succo-di-limone','succo di pomodoro':'succo-di-pomodoro','carta da cucina':'carta-da-cucina','ammorbidente':'ammorbidente','spugne':'spugne','sacchi della spazzatura':'sacchi-della-spazzatura',
   'candeggina':'candeggina','sgrassatore':'sgrassatore','detersivo pavimenti':'detersivo-pavimenti','lampadine':'lampadine','batterie':'batterie','anticalcare':'anticalcare','candele':'candele','tovaglioli':'tovaglioli','pellicola':'pellicola','carta alluminio':'carta-alluminio','fazzoletti':'fazzoletti','lavastoviglie pastiglie':'lavastoviglie-pastiglie','detersivo vetri':'detersivo-vetri','disincrostante':'disincrostante','detersivo in capsule':'detersivo-in-capsule','brillantante':'brillantante','sale per lavastoviglie':'sale-per-lavastoviglie','sapone liquido':'sapone-liquido','igienizzante':'igienizzante','alcol denaturato':'alcol-denaturato','deodorante per ambiente':'deodorante-per-ambiente','insetticida':'insetticida','antizanzare':'antizanzare','scopa':'scopa','paletta':'paletta','panni':'panni','pagliette':'pagliette','strofinacci':'strofinacci','secchio':'secchio','mocio':'mocio','ricambi mocio':'ricambi-mocio','guanti':'guanti','sacchetti umido':'sacchetti-umido','carta forno':'carta-forno','sacchetti freezer':'sacchetti-freezer','contenitori':'contenitori','rotoloni':'rotoloni','piatti di carta':'piatti-di-carta','bicchieri di plastica':'bicchieri-di-plastica','posate di plastica':'posate-di-plastica','cannucce':'cannucce','batterie a bottone':'batterie-a-bottone','spazzolino':'spazzolino','shampoo':'shampoo','balsamo':'balsamo','sapone':'sapone','bagnoschiuma':'bagnoschiuma','deodorante':'deodorante','rasoi':'rasoi','crema viso':'crema-viso','crema mani':'crema-mani','cerotti':'cerotti','struccante':'struccante','cotone':'cotone','doccia':'doccia','farmacia':'farmacia','protezione solare':'protezione-solare','collutorio':'collutorio','filo interdentale':'filo-interdentale','maschera per capelli':'maschera-per-capelli','lacca':'lacca','gel per capelli':'gel-per-capelli','sapone intimo':'sapone-intimo','deodorante roll-on':'deodorante-roll-on',
-  'dopobarba':'dopobarba','schiuma da barba':'schiuma-da-barba','lamette':'lamette','crema corpo':'crema-corpo','crema idratante':'crema-idratante','latte detergente':'latte-detergente','burrocacao':'burrocacao','rossetto':'rossetto','mascara':'mascara','smalto':'smalto','acetone':'acetone','dischetti struccanti':'dischetti-struccanti','cotton fioc':'cotton-fioc','assorbenti':'assorbenti','tamponi':'tamponi','salviette umidificate':'salviette-umidificate','pannolini':'pannolini','salviette neonato':'salviette-neonato','garze':'garze','disinfettante':'disinfettante','acqua ossigenata':'acqua-ossigenata','termometro':'termometro','gel igienizzante':'gel-igienizzante','antidolorifico':'antidolorifico','vitamine':'vitamine','integratori':'integratori','spazzola':'spazzola','cibo per cani':'cibo-per-cani','croccantini':'croccantini','snack per cani':'snack-per-cani','umido per cani':'umido-per-cani','sacchetti igienici':'sacchetti-igienici','antiparassitario':'antiparassitario','regalo':'regalo','candele profumate':'candele-profumate','pacco':'pacco','cancelleria':'cancelleria','fiori':'fiori','candeline':'candeline','palloncini':'palloncini','carta regalo':'carta-regalo','biglietti d\'auguri':'biglietti-d-auguri','nastri':'nastri','buste':'buste','quaderni':'quaderni','matite':'matite','graffette':'graffette','borse della spesa':'borse-della-spesa','accendino':'accendino','fiammiferi':'fiammiferi','nastro adesivo':'nastro-adesivo','piante':'piante'
+  'dopobarba':'dopobarba','schiuma da barba':'schiuma-da-barba','lamette':'lamette','crema corpo':'crema-corpo','crema idratante':'crema-idratante','latte detergente':'latte-detergente','burrocacao':'burrocacao','rossetto':'rossetto','mascara':'mascara','smalto':'smalto','acetone':'acetone','dischetti struccanti':'dischetti-struccanti','cotton fioc':'cotton-fioc','assorbenti':'assorbenti','tamponi':'tamponi','salviette umidificate':'salviette-umidificate','pannolini':'pannolini','salviette neonato':'salviette-neonato','garze':'garze','disinfettante':'disinfettante','acqua ossigenata':'acqua-ossigenata','termometro':'termometro','gel igienizzante':'gel-igienizzante','antidolorifico':'antidolorifico','vitamine':'vitamine','integratori':'integratori','spazzola':'spazzola','cibo per cani':'cibo-per-cani','croccantini':'croccantini','snack per cani':'snack-per-cani','umido per cani':'umido-per-cani','sacchetti igienici':'sacchetti-igienici','antiparassitario':'antiparassitario','regalo':'regalo','candele profumate':'candele-profumate','pacco':'pacco','cancelleria':'cancelleria','fiori':'fiori','candeline':'candeline','palloncini':'palloncini','carta regalo':'carta-regalo','biglietti d\'auguri':'biglietti-d-auguri','nastri':'nastri','buste':'buste','quaderni':'quaderni','matite':'matite','graffette':'graffette','borse della spesa':'borse-della-spesa','accendino':'accendino','fiammiferi':'fiammiferi','nastro adesivo':'nastro-adesivo','piante':'piante',
+  'occhi di bue':'occhi-di-bue','nutella biscuits':'nutella-biscuits','ventaglietti':'ventaglietti','baiocchi':'baiocchi','biscotti mulino bianco':'biscotti-mulino-bianco','fiesta':'fiesta'
 };
 function plate(name, emoji, cls) {
   const f = IMG[norm(name)];
@@ -548,7 +549,7 @@ function renderMoreMain() {
     <div class="group">
       <div class="ln"><div>Cancella tutto<small>Elimina liste e carte da questo telefono</small></div><button class="btn danger" data-act="wipe">Cancella</button></div>
     </div>
-    <p style="text-align:center;color:var(--muted);font-size:13px">Solo du Cosette · versione 1.23<br>I dati restano solo su questo telefono.</p>`;
+    <p style="text-align:center;color:var(--muted);font-size:13px">Solo du Cosette · versione 1.24<br>I dati restano solo su questo telefono.</p>`;
 }
 
 function render() {

diff --git a/README.md b/README.md
@@ -29,7 +29,7 @@ App web (PWA) senza server e senza account: liste, carte fedeltà e impostazioni
 3. Dopo circa un minuto l'app è su `https://<utente>.github.io/Solo-du-Cosette/`.
 
 ## Aggiornare l'app
-Dopo ogni modifica a `index.html`, cambiare il numero di `VERSIONE` in `sw.js` (per esempio da `v24` a `v25`). Così il telefono scarica la versione nuova.
+Dopo ogni modifica a `index.html`, cambiare il numero di `VERSIONE` in `sw.js` (per esempio da `v25` a `v26`). Così il telefono scarica la versione nuova.
 
 ## File
 - `index.html`: tutta l'app (pagina, stile e codice)
